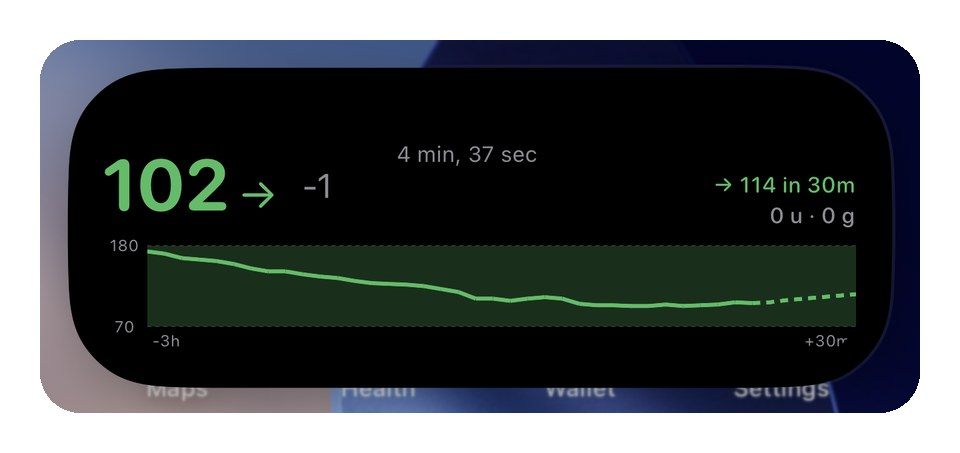
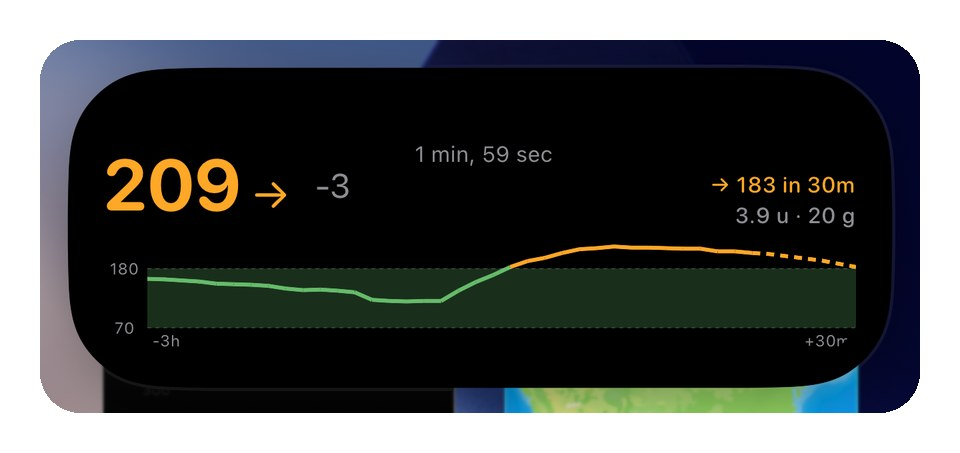
Stop chart axis labels clipping at the edges; refresh iOS screenshots
Watch and iPhone charts skip hour labels whose tick sits near either end of
the time domain (they rendered as "PM", "7" or an ellipsis), the watch uses a
2-hour stride when more than 4 hours are visible, the iPhone glucose plot
leaves room for its top y label, and the basal strip labels 1 and 2 U/hr only
so 0/3 aren't clipped and 3 doesn't collide with the caption. Screenshots are
retaken in one pass so every image shows the same reading, and the Lock
Screen now includes the inline widget.

diff --git a/ios/ClearSugar/Views/GlucoseChartView.swift b/ios/ClearSugar/Views/GlucoseChartView.swift
@@ -266,9 +266,11 @@ struct GlucoseChartView: View {
             AxisMarks(values: .stride(by: .hour, count: xAxisStride)) { value in
                 AxisGridLine(stroke: StrokeStyle(lineWidth: 0.5))
                     .foregroundStyle(Color.white.opacity(0.06))
-                AxisValueLabel(format: .dateTime.hour(.defaultDigits(amPM: .abbreviated)))
-                    .foregroundStyle(textSecondary)
-                    .font(.system(size: 11, design: .monospaced))
+                if let date = value.as(Date.self), showsXLabel(at: date) {
+                    AxisValueLabel(format: .dateTime.hour(.defaultDigits(amPM: .abbreviated)))
+                        .foregroundStyle(textSecondary)
+                        .font(.system(size: 11, design: .monospaced))
+                }
             }
         }
         .chartYAxis {
@@ -287,6 +289,9 @@ struct GlucoseChartView: View {
         .chartPlotStyle { plotArea in
             plotArea.background(Color.clear)
         }
+        // The top y label is centered on the domain edge; leave room for its
+        // upper half so .clipped() doesn't cut it.
+        .padding(.top, 8)
         .frame(height: 200)
         .clipped()
         .accessibilityElement(children: .ignore)
@@ -356,8 +361,10 @@ struct GlucoseChartView: View {
             AxisMarks(position: .leading, values: [0, 1, 2, 3]) { value in
                 AxisGridLine(stroke: StrokeStyle(lineWidth: 0.5))
                     .foregroundStyle(Color.white.opacity(0.04))
+                // 0 and 3 sit on the clipped edges of this 50pt strip and 3
+                // collides with the "U/hr" caption, so label 1 and 2 only.
                 AxisValueLabel {
-                    if let v = value.as(Int.self) {
+                    if let v = value.as(Int.self), v == 1 || v == 2 {
                         Text(String(format: "%3d", v))
                             .foregroundStyle(textSecondary.opacity(0.6))
                             .font(.system(size: 11, design: .monospaced))
@@ -388,6 +395,15 @@ struct GlucoseChartView: View {
         case 7...12: return 2
         default:     return 4
         }
+    }
+
+    /// Hour labels are centered on their tick; one near either end of the
+    /// chart is clipped or truncated to an ellipsis. Skip ticks within 7% of the
+    /// time range of either edge.
+    private func showsXLabel(at date: Date) -> Bool {
+        let margin = timeRange.upperBound.timeIntervalSince(timeRange.lowerBound) * 0.07
+        return date.timeIntervalSince(timeRange.lowerBound) > margin
+            && timeRange.upperBound.timeIntervalSince(date) > margin
     }
 
     private func clampGlucose(_ sgv: Int) -> Int {

diff --git a/ios/ClearSugarWatch/Views/WatchTrendChart.swift b/ios/ClearSugarWatch/Views/WatchTrendChart.swift
@@ -37,6 +37,30 @@ struct WatchTrendChart: View {
         return 350
     }
 
+    // Visible x-span, and the hour-label stride that keeps "10 PM"-width
+    // labels from colliding at watch width.
+    private var visibleSeconds: Double {
+        isScrollable ? sixHours : dataSpanSeconds
+    }
+
+    private var xLabelStrideHours: Int {
+        visibleSeconds > 4 * 3600 ? 2 : 1
+    }
+
+    /// Hour labels are centered on their tick, so one near either end of the
+    /// chart gets clipped ("PM", "7"). Skip ticks within this many seconds of
+    /// the first reading or the last plotted point.
+    private var xLabelEdgeMargin: Double {
+        visibleSeconds * 0.12
+    }
+
+    private func showsXLabel(at date: Date) -> Bool {
+        guard let first = dataPoints.first?.time,
+              let last = predictionPoints.last?.time ?? dataPoints.last?.time else { return true }
+        return date.timeIntervalSince(first) > xLabelEdgeMargin
+            && last.timeIntervalSince(date) > xLabelEdgeMargin
+    }
+
     // Label only the range edges plus the top. 200 sits too close to 180 to
     // label on a watch-height chart, so the top gets a label from 250 up.
     private var yAxisValues: [Double] {
@@ -186,10 +210,12 @@ struct WatchTrendChart: View {
         .chartYScale(domain: fixedMin...dynamicMax)
         .chartYAxis(.hidden)
         .chartXAxis {
-            AxisMarks(values: .stride(by: .hour, count: 1)) { _ in
-                AxisValueLabel(format: .dateTime.hour(.defaultDigits(amPM: .abbreviated)))
-                    .font(.system(size: 11, design: .rounded))
-                    .foregroundStyle(.white.opacity(0.45))
+            AxisMarks(values: .stride(by: .hour, count: xLabelStrideHours)) { value in
+                if let date = value.as(Date.self), showsXLabel(at: date) {
+                    AxisValueLabel(format: .dateTime.hour(.defaultDigits(amPM: .abbreviated)))
+                        .font(.system(size: 11, design: .rounded))
+                        .foregroundStyle(.white.opacity(0.45))
+                }
             }
         }
         .chartScrollableAxes(.horizontal)

diff --git a/README.md b/README.md
@@ -282,11 +282,11 @@ The [`ios/`](ios/) directory contains a native iPhone + Apple Watch companion ap
 - **Yours end to end** — you build it in Xcode against **your** server; there is no App
   Store listing, no third-party service, and no telemetry.
 
-<img src="docs/screenshots/ios-iphone.jpg" alt="iPhone app, home-screen widgets with the compact Dynamic Island, and Lock Screen with the Live Activity and Lock Screen widgets" width="850">
+<img src="docs/screenshots/ios-iphone.jpg" alt="iPhone app, home-screen widgets with the compact Dynamic Island, and Lock Screen with the Live Activity and inline, rectangular, and circular Lock Screen widgets" width="850">
 
 *Left to right: the app, home-screen widgets (small and medium) with the Live Activity in
-the compact Dynamic Island, and the Lock Screen with the Live Activity plus rectangular
-and circular Lock Screen widgets.*
+the compact Dynamic Island, and the Lock Screen with the Live Activity plus inline,
+rectangular, and circular Lock Screen widgets.*
 
 <img src="docs/screenshots/ios-dynamic-island.jpg" alt="Expanded Dynamic Island showing glucose, delta, 30-minute prediction, IOB/COB, and a 3-hour sparkline" width="600">
 
